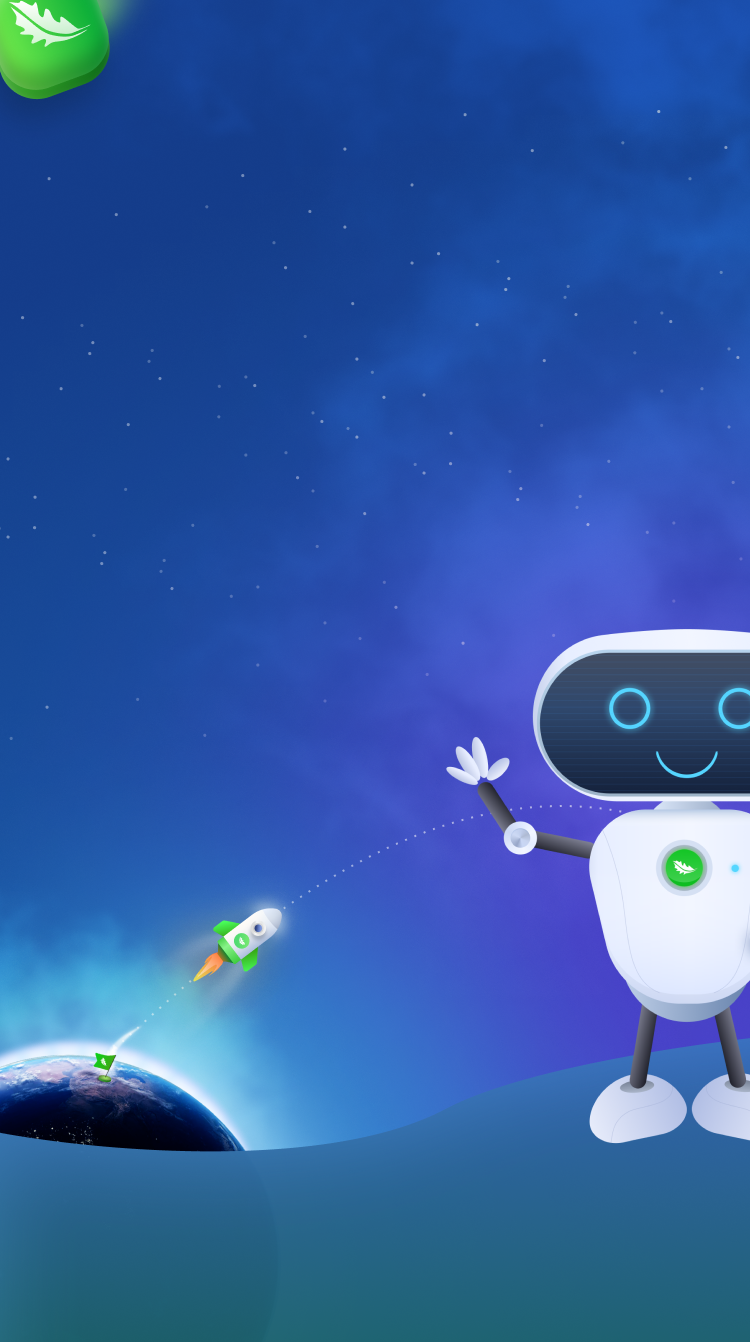
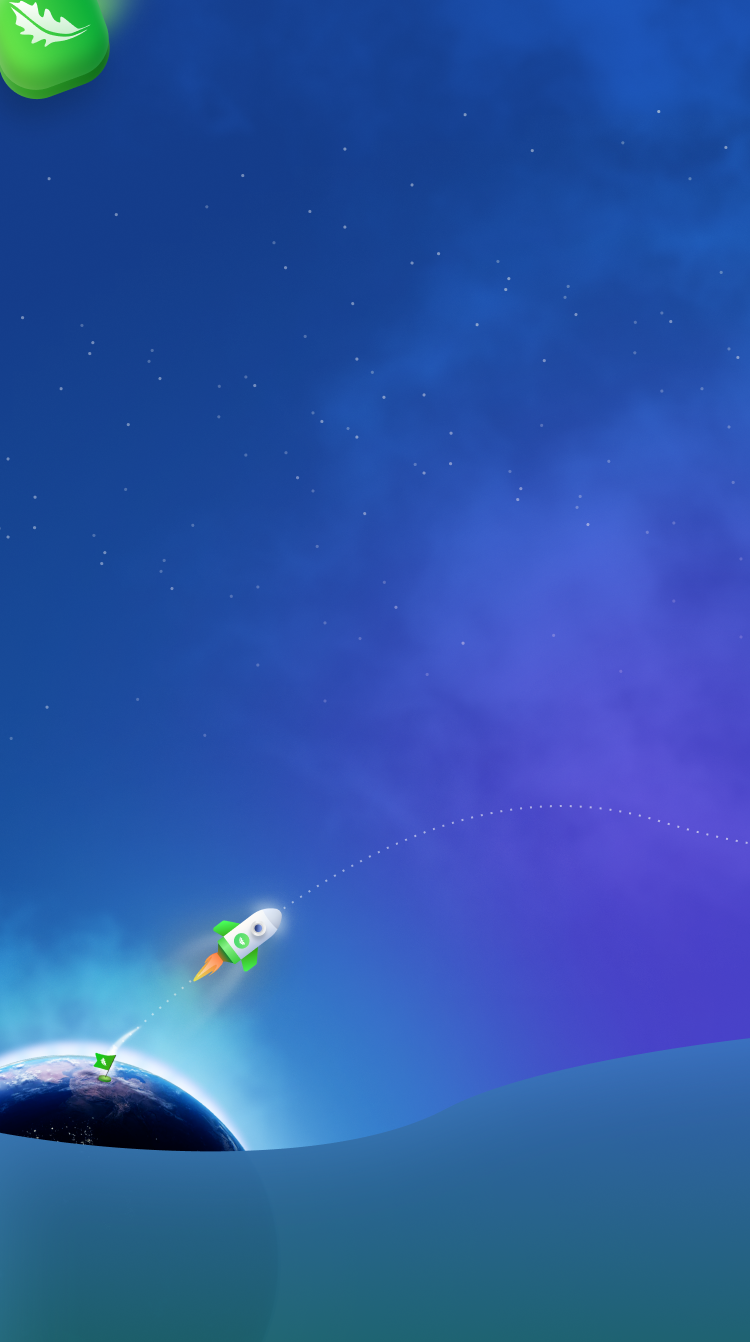
feat: first screen

Changed region(s): [[0.5827, 0.4583, 1.0, 0.8554]]

diff --git a/components/Screens/Onboarding/OnboardingMain.tsx b/components/Screens/Onboarding/OnboardingMain.tsx
@@ -6,6 +6,7 @@ import {
   View,
   ImageBackground,
   TouchableOpacity,
+  Image,
 } from 'react-native';
 import React, {FC, useRef} from 'react';
 import {SwiperFlatList} from 'react-native-swiper-flatlist';
@@ -67,11 +68,33 @@ const OnboardingMain: FC<ScreenProps> = ({navigation}) => {
             <Text style={stylesConst.text_title_32_e}>22</Text>
             <Text style={stylesConst.text_12_r}>бесплатных инструмента</Text>
           </View>
+          <Image
+            source={require('../../../assets/robot1.png')}
+            style={{
+              position: 'absolute',
+              right: -4,
+              width: 172,
+              height: 265,
+
+              bottom: 92,
+            }}
+            resizeMode="contain"
+          />
         </ImageBackground>
         <ImageBackground
           source={require('../../../assets/welcome2.png')}
           imageStyle={styles.backgroundImageContainer}
           style={styles.child}>
+          <Image
+            source={require('../../../assets/robot2.png')}
+            style={{
+              position: 'absolute',
+
+              height: 265,
+              width: 44,
+              bottom: 92,
+            }}
+          />
           <View style={styles.textContainer}>
             <Text style={stylesConst.text_title_32_e}>
               Большой{'\n'}выбор{'\n'}инструментов
@@ -177,7 +200,7 @@ const OnboardingMain: FC<ScreenProps> = ({navigation}) => {
 };
 
 export default OnboardingMain;
-const {width} = Dimensions.get('window');
+const {width, height} = Dimensions.get('window');
 
 const styles = StyleSheet.create({
   container: {flex: 1},

diff --git a/components/Screens/Onboarding/PaginationComponent.tsx b/components/Screens/Onboarding/PaginationComponent.tsx
@@ -70,7 +70,7 @@ const styles = StyleSheet.create({
   },
   navbarBottom: {
     position: 'absolute',
-    bottom: 15,
+    bottom: 0,
     paddingBottom: 15,
     paddingHorizontal: 15,
   },
